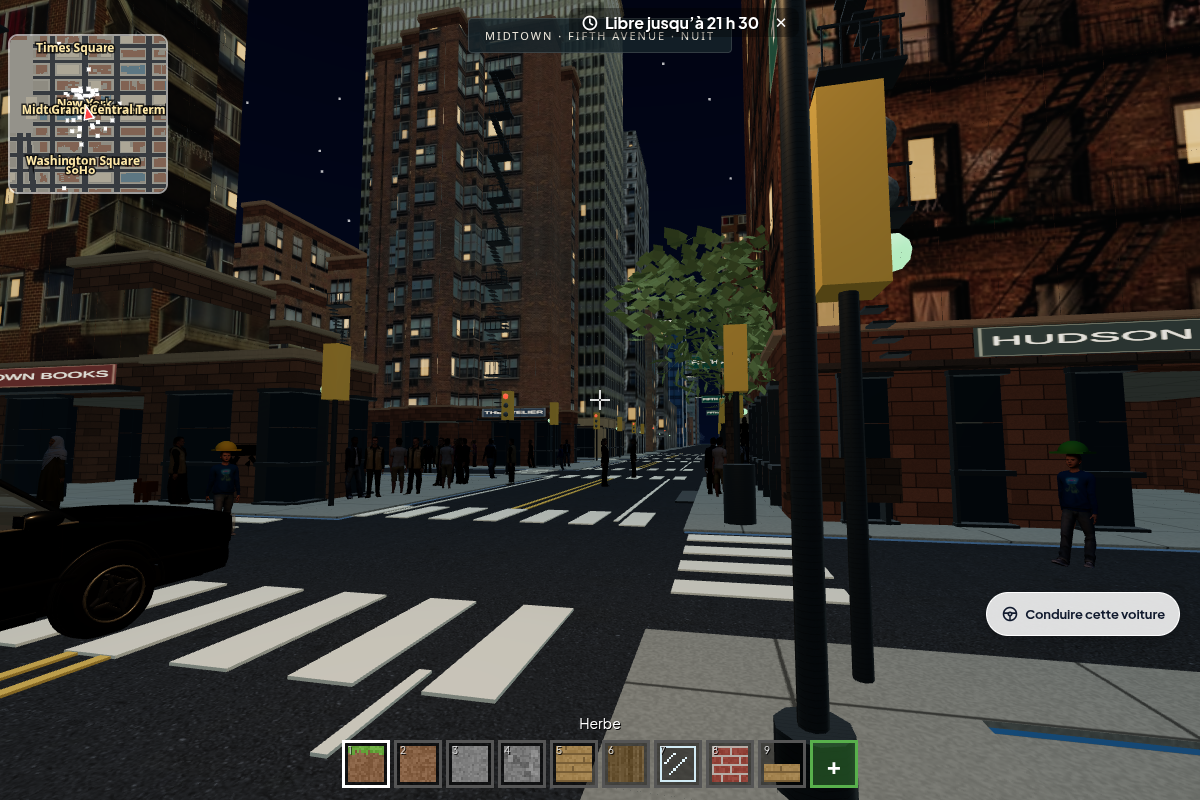
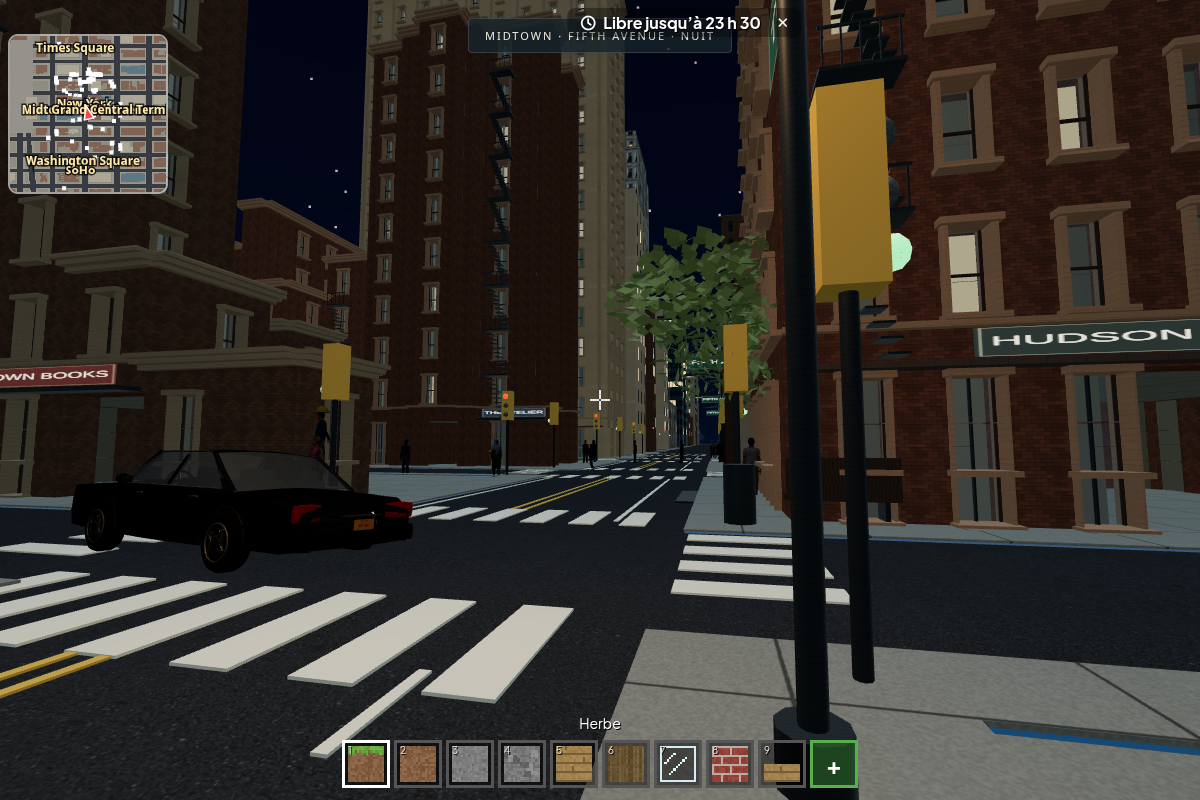
Documenter les façades v584 avec treize vues du jeu réel

diff --git a/docs/revue-ecran.md b/docs/revue-ecran.md
@@ -284,3 +284,34 @@ ni une cadence sur un iPad physique : le banc utilise SwiftShader.
 | --- | --- | --- | --- | --- | --- | --- |
 | 40 | moyenne | Midtown et Brooklyn | [Brooklyn](revue-ecran/v583-new-york/iphone-ny-brooklyn-jour.jpg) | Les couronnes des arbres restent des plaques anguleuses peu détaillées. | Remplacer le feuillage urbain et ses LOD par des silhouettes et des matériaux conformes à la direction high fidelity. | `src/manhattan-render.js` |
 | 41 | moyenne | Brooklyn, en bout de rue | [iPhone](revue-ecran/v583-new-york/iphone-ny-brooklyn-jour.jpg) | Le bout de la rue paraît très vide, sous un horizon uniforme ; la transition avec les quartiers lointains manque de profondeur. | Reprendre les silhouettes lointaines et la transition du brouillard hors du plan. | `src/manhattan-render.js`, `src/main.js` |
+
+## Le relevé de la v584 — façades en relief, 1er novembre 2026
+
+Les cinq vues de la [galerie Manhattan](manhattan-osm-validation.md) sont
+renouvelées sur la v584 : piéton, gros plan oblique, toits, Greenwich Village
+et nuit. Le [gros plan](manhattan-osm-captures/facade-detail.png) montre une
+embrasure réelle, son vitrage en retrait, les châssis et l’appui saillant.
+Les textures de matière ne remplacent plus les détails architecturaux des
+immeubles OSM. L’éclairage nocturne vient du fond derrière les vitres.
+Aucune erreur JavaScript, HTTP ou WebGL pendant ces cinq captures.
+
+| # | Gravité | État | Capture | Ce qui cloche | Remède proposé | Fichier probable |
+| --- | --- | --- | --- | --- | --- | --- |
+| 42 | importante | Greenwich Village, piéton | [Village](manhattan-osm-captures/village.png) | Les contours diagonaux forment des marches ; les petits pans successifs restent aveugles et fragmentent les corniches. Le détail des fenêtres ne suffit pas à rendre cet immeuble crédible. | Reconstruire les contours visibles continus et leurs travées tout en conservant la correspondance avec les collisions et les constructions sauvegardées. | `src/manhattan-render.js`, `src/manhattan-architecture.js` |
+
+La passe tactile utilise les formats iPhone (430 × 932) et iPad (820 × 1180),
+à pied et au volant, de jour et de nuit. Reproduction :
+
+```sh
+CHROMIUM=/usr/bin/chromium node tests/sonde-revue-ecran.cjs /tmp/ny-v584 --vues=iphone,ipad --etats=ny-rue,ny-volant --rr=4 '--params=&carte=manhattan&qualite=tablette'
+```
+
+| Appareil | À pied, jour | À pied, nuit | Au volant, jour | Au volant, nuit |
+| --- | --- | --- | --- | --- |
+| iPhone | [image](revue-ecran/v584-facades/iphone-ny-rue-jour.jpg) | [image](revue-ecran/v584-facades/iphone-ny-rue-nuit.jpg) | [image](revue-ecran/v584-facades/iphone-ny-volant-jour.jpg) | [image](revue-ecran/v584-facades/iphone-ny-volant-nuit.jpg) |
+| iPad | [image](revue-ecran/v584-facades/ipad-ny-rue-jour.jpg) | [image](revue-ecran/v584-facades/ipad-ny-rue-nuit.jpg) | [image](revue-ecran/v584-facades/ipad-ny-volant-jour.jpg) | [image](revue-ecran/v584-facades/ipad-ny-volant-nuit.jpg) |
+
+Les défauts 40–41 restent ouverts. Cette revue ne valide pas la fidélité
+photographique globale ni les performances d’un appareil physique : Chromium
+utilise SwiftShader. Le changement améliore la géométrie des façades, mais
+l’objectif d’une ville au niveau de fidélité d’un GTA récent reste à atteindre.

diff --git a/docs/manhattan-osm-validation.md b/docs/manhattan-osm-validation.md
@@ -31,7 +31,21 @@ immeubles OSM vient des fonds derrière les vitres. Les photographies du paquet
 New York Buildings restent utilisées par les modèles hérités ; leurs masques
 nocturnes suivent les baies et non les ombres d'escaliers.
 
-Les captures de cette galerie sont en cours de remplacement par la passe finale.
+Les cinq captures de cette galerie montrent la v584, après la dernière passe
+sur les travées : aucune erreur JavaScript, HTTP ou WebGL. Les
+[mesures de capture](manhattan-osm-captures/mesures-v584.json) gardent les positions,
+les durées et les compteurs. Le gros plan montre le vitrage en retrait, les
+châssis et les appuis vus de biais ; la vue nocturne montre les fonds éclairés.
+La vue Village expose aussi le défaut restant : les petits pans des contours
+en escalier ont peu de baies et découpent les corniches. Il reste à reprendre
+ces contours pour atteindre la fidélité demandée.
+
+La revue tactile de la v584 comporte **huit captures**, iPhone/iPad,
+à pied et au volant, jour/nuit, sans échec de préparation ou de capture.
+Les deux préparations de conduite confirment `auVolant: true`. Les images
+sont archivées en JPEG à leur taille d’origine dans
+[`revue-ecran/v584-facades/`](revue-ecran/v584-facades/), avec les liens et
+la commande de reproduction dans [la revue d’écran](revue-ecran.md).
 
 ## Données et échelle
 
@@ -113,10 +127,13 @@ et d'appels de rendu ne sont pas un benchmark comparable aux captures anciennes.
 Limites : les quartiers périphériques n'ont pas encore le
 réseau de feux de Manhattan ; les passants sont moins présents dans les zones
 éloignées. Le rendu, les contours des empreintes et les rues restent stylisés
-et voxelisés. Le relief des façades est réel ; la fidélité globale d'un GTA
+et voxelisés. Les pans étroits des empreintes diagonales restent souvent
+aveugles, avec des corniches fragmentées (défaut 42 de la revue). Le relief
+des façades est réel ; la fidélité globale d'un GTA
 récent n'est pas atteinte.
 
-Revue mobile après intégration de main et correction des supports : huit
+Revue mobile historique de la v583, après intégration de main et correction
+des supports : huit
 captures Midtown/Brooklyn, jour et nuit, iPhone et iPad, dans
 `docs/revue-ecran/v583-new-york/`. Les limites observées (feuillage anguleux,
 fin de rue vide) figurent au relevé 40–41 de `docs/revue-ecran.md`.

diff --git a/TASKS.md b/TASKS.md
@@ -14,6 +14,19 @@
   10 min 34 s**, huit contrats d’architecture verts et aucun défaut JavaScript
   ou WebGL. La passe précédente et son intermittence PeerJS restent consignées.
 
+- [ ] **Fidélité visuelle encore insuffisante à l’échelle du quartier.** La
+  v584 apporte des embrasures et des éléments saillants réels, mais les contours
+  diagonaux restent en escalier. Dans Greenwich Village, les petits pans
+  successifs gardent beaucoup de murs aveugles et fragmentent les corniches.
+  Reprendre les contours visibles et leur implantation de baies sans modifier
+  les sauvegardes ni créer de désaccord avec la collision. Les défauts de
+  feuillage et d’horizon 40–41 restent ouverts. Voir la galerie actuelle dans
+  `docs/manhattan-osm-validation.md` ; ce résultat n’est pas présenté comme
+  photoréaliste ni équivalent à un GTA récent.
+- [ ] **Performance sur appareil réel à mesurer.** Les captures et les tests
+  tournent sur Chromium/SwiftShader. Ils ne démontrent ni la cadence, ni la
+  mémoire GPU, ni la fluidité des transitions de détail sur iPhone/iPad physique.
+
 ## New York v583 — revue et dettes déclarées
 
 - [ ] **Rendu encore stylisé.** Les huit vues mobiles Midtown/Brooklyn jour/nuit

diff --git a/docs/revue-ecran/v584-facades/mesures.md b/docs/revue-ecran/v584-facades/mesures.md
@@ -1,0 +1,24 @@
+# Journal de capture v584
+
+Huit vues produites par la sonde, sans échec. Images JPEG qualité 90, dimensions
+conservées. La sonde utilise Chromium/SwiftShader ; ces durées ne mesurent pas
+les performances d’un appareil physique.
+
+```text
+· iphone ny-rue prêt en 108 s {"monde":8,"architecture":{"attente":99295,"proches":26},"triangles":2425282}
+  loin {"brouillard":448,"planLointain":568,"couronnes":[]}
+📸 iphone-ny-rue-jour
+📸 iphone-ny-rue-nuit
+· iphone ny-volant prêt en 41 s {"monde":8,"architecture":{"attente":16041,"proches":26},"triangles":2621850,"auVolant":true}
+  loin {"brouillard":448,"planLointain":568,"couronnes":[]}
+📸 iphone-ny-volant-jour
+📸 iphone-ny-volant-nuit
+· ipad ny-rue prêt en 116 s {"monde":12,"architecture":{"attente":102302,"proches":26},"triangles":2369615}
+  loin {"brouillard":448,"planLointain":568,"couronnes":[]}
+📸 ipad-ny-rue-jour
+📸 ipad-ny-rue-nuit
+· ipad ny-volant prêt en 38 s {"monde":8,"architecture":{"attente":18122,"proches":26},"triangles":2498887,"auVolant":true}
+  loin {"brouillard":448,"planLointain":568,"couronnes":[]}
+📸 ipad-ny-volant-jour
+📸 ipad-ny-volant-nuit
+```
